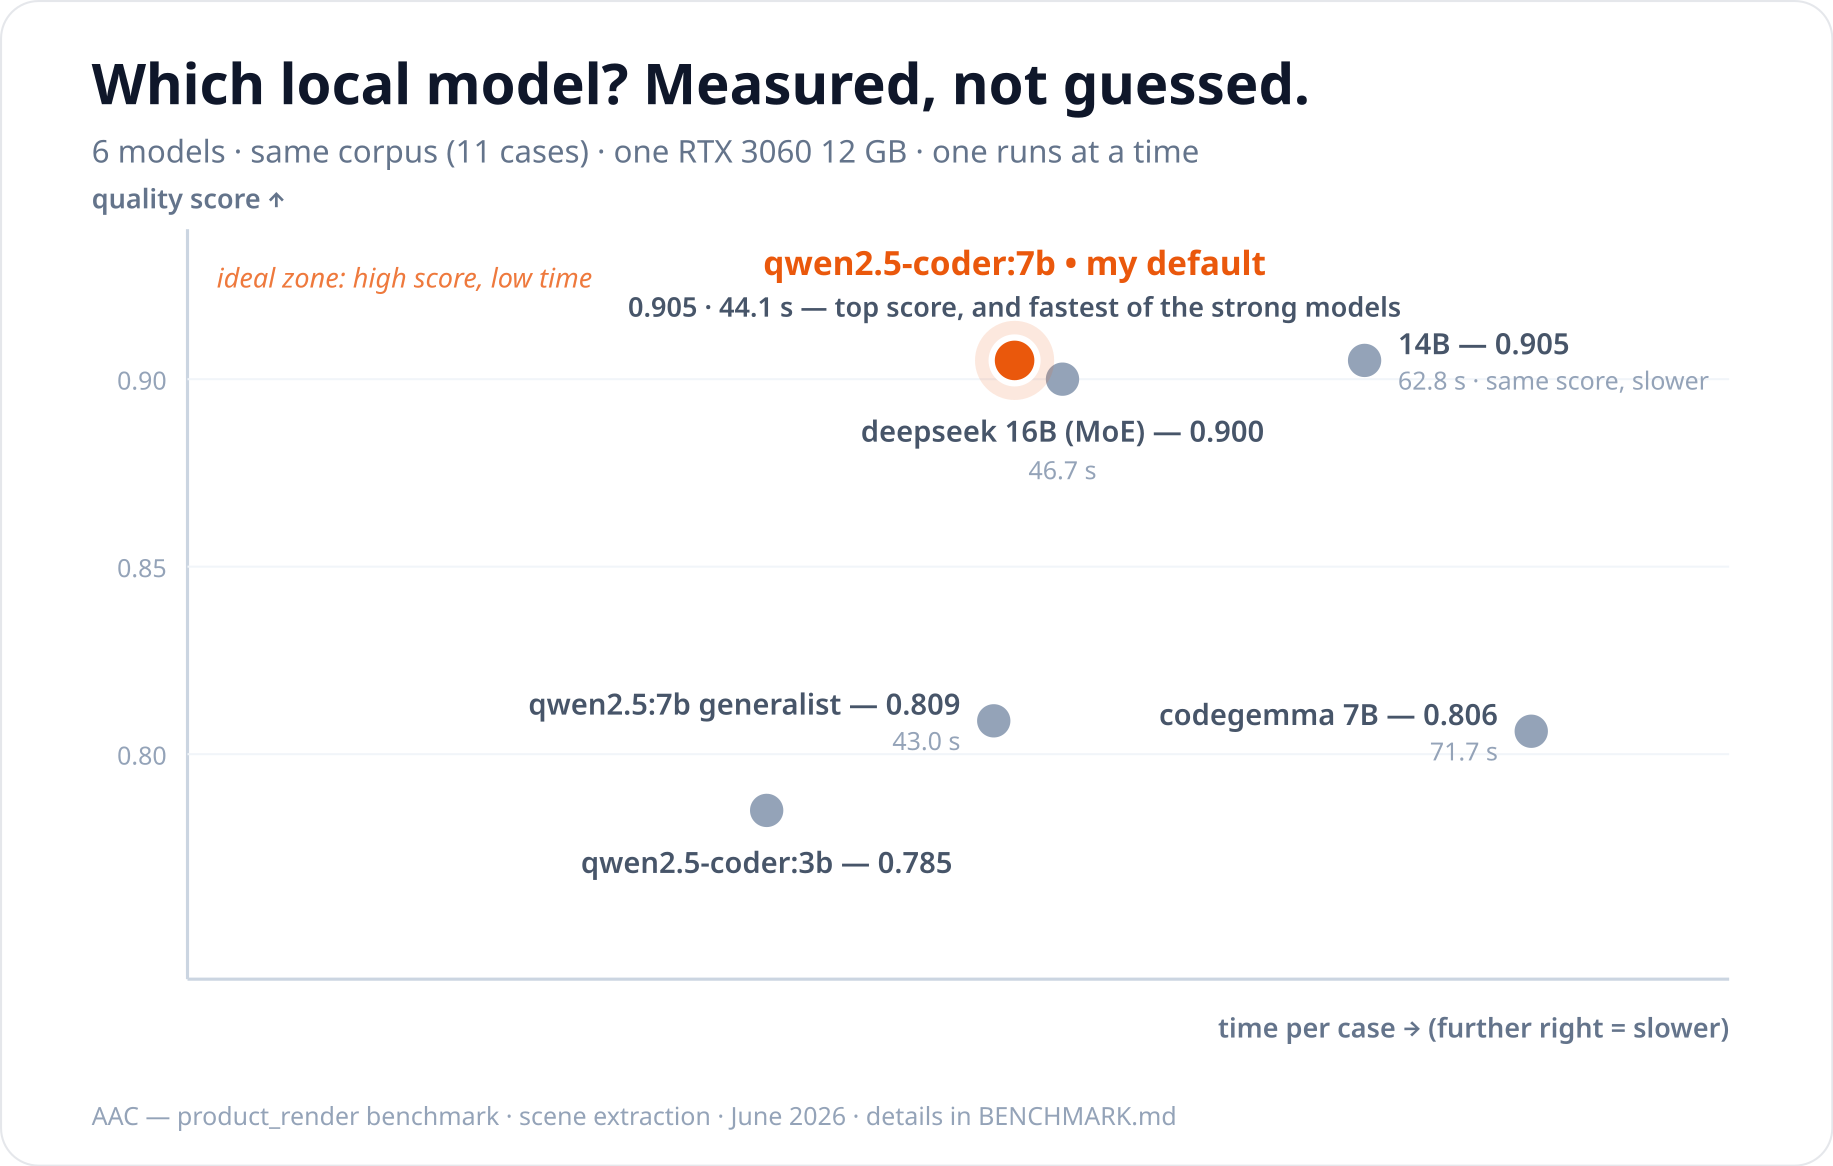
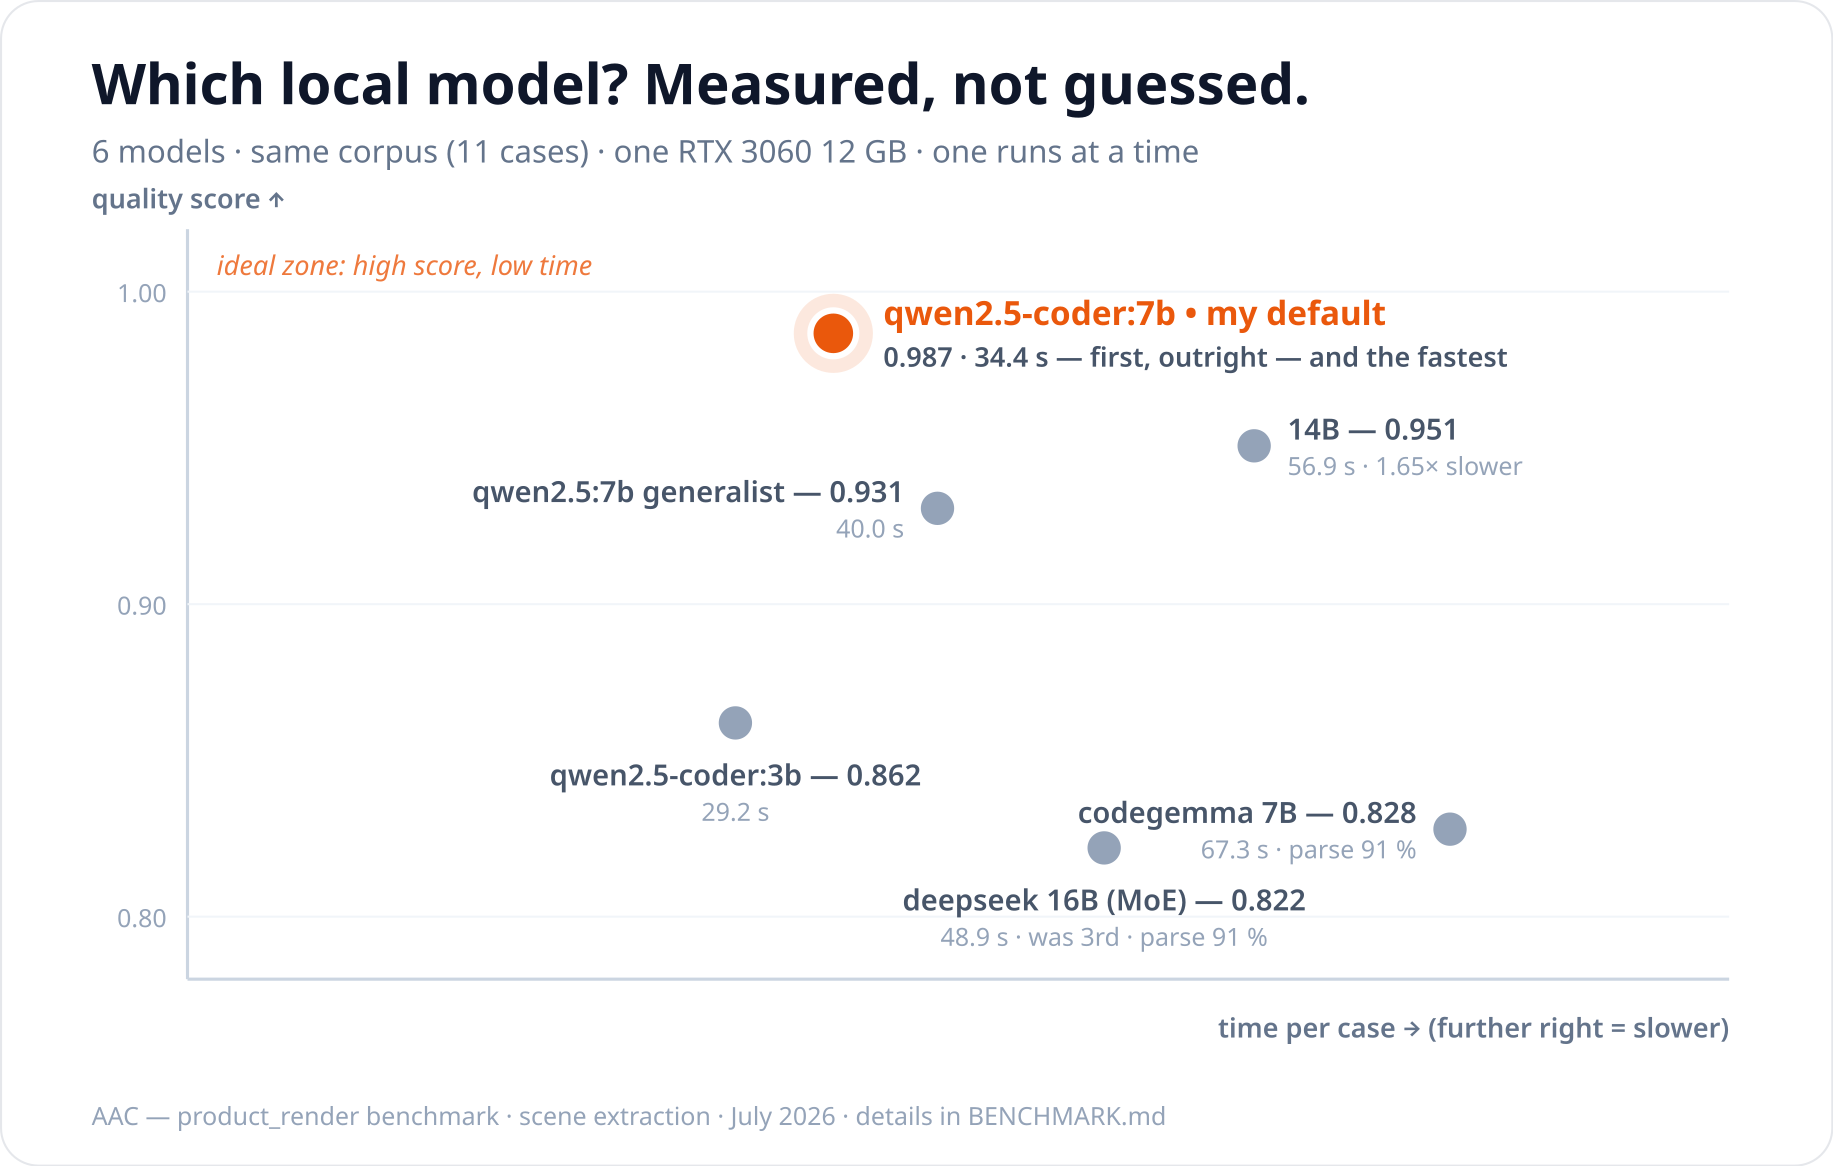
fix(extractor): anti-inference rule closes the schema_version gap (0.545 -> 1.000) (#19)
The extractor inferred V1 attributes from the object type ("tube" ->
cylindrical/opaque) and then labeled the extraction v1 even when the
request never stated them - the last systemic gap flagged by the
benchmark. The prompt now forbids filling any V1 field the request does
not state explicitly, maps transmission words to enum values ("transparent"
-> glass, never the invalid literal "transparent"), and shows two
contrastive v0/v1 examples.

Measured (2026-07-01, idle GPU, 11 cases):
- schema_version 0.545 -> 1.000 on the default model; mean 0.905 -> 0.98-1.00
- cross-model re-run (6 models): coder:7b now first outright (0.987, 34.4s);
  14b 0.951; rankings reshuffle with the prompt (deepseek 3rd -> 6th) -
  documented as "a benchmark measures the model x prompt pair"
- new honesty note: greedy decoding is bit-identical within a session,
  +/-1 borderline case across sessions

Docs: BENCHMARK.md sections 2-3 rewritten, README table refreshed,
quality-vs-speed slide regenerated (axis rescaled to 1.00).
Suite: 1629 passed / 10 skipped.

diff --git a/core/app/engine/product_render_extractor.py b/core/app/engine/product_render_extractor.py
@@ -281,6 +281,41 @@ cas, OMETS complètement les clés `shape`, `cap`, `transparency`, \
 - Utilise `schema_version="v1"` UNIQUEMENT si tu remplis effectivement \
 au moins un de ces champs V1.
 
+RÈGLE ANTI-INFÉRENCE (critique pour le choix v0/v1) : un champ V1 ne se \
+remplit QUE si la demande l'énonce avec un mot explicite. Ne DÉDUIS \
+JAMAIS `shape`, `cap`, `transparency` ou `framing` du type d'objet ni \
+du bon sens :
+- "tube" seul → N'écris PAS shape=cylindrical ni transparency=opaque ;
+- "boîte" seule → N'écris PAS shape=rectangular ;
+- "bouteille" ou "flacon" seuls → N'écris PAS cap=present : il faut \
+"bouchon", "couvercle" ou équivalent dans la demande ;
+- "en verre" seul → material=glass, et N'écris PAS transparency ;
+- transparency s'écrit UNIQUEMENT si la demande contient un mot de \
+transmission, avec ce mapping strict : "transparent"/"transparente" → \
+transparency=glass (la valeur "transparent" N'EXISTE PAS, ne l'écris \
+jamais) ; "translucide" → translucent ; "opaque" → opaque ;
+- aucun mot de cadrage (packshot, plan rapproché, cadrage moyen...) → \
+N'écris PAS framing.
+Si aucun champ V1 n'est énoncé explicitement, la bonne réponse est \
+`schema_version="v0"` SANS les clés V1.
+
+Exemples du choix v0/v1 (à imiter) :
+- "bouteille de shampoing verte en verre sur fond beige" → \
+{{"schema_version": "v0", "subject": {{"kind": "bottle", "color": "green", \
+"material": "glass", "label": "bouteille de shampoing verte en verre", \
+"kind_fidelity": "exact"}}, "backdrop": {{"color": "beige"}}}} \
+(rien d'explicite sur silhouette/bouchon/transparence/cadrage → v0, \
+même si une bouteille a "évidemment" un bouchon et que le verre est \
+"évidemment" transparent).
+- "packshot serré d'un flacon cylindrique translucide bleu avec bouchon, \
+fond noir" → \
+{{"schema_version": "v1", "subject": {{"kind": "bottle", "color": "blue", \
+"material": "glossy", "shape": "cylindrical", "cap": "present", \
+"transparency": "translucent", "label": "flacon cylindrique translucide \
+bleu avec bouchon", "kind_fidelity": "exact"}}, "backdrop": \
+{{"color": "black"}}, "framing": "close_packshot"}} \
+(chaque champ V1 rempli correspond à un mot explicite de la demande).
+
 Distinction CRITIQUE material vs transparency :
 - `material` est l'aspect de surface : matte, glossy, glass, metallic.
 - `transparency` est le profil de transmission : opaque, translucent, glass.

diff --git a/BENCHMARK.md b/BENCHMARK.md
@@ -5,7 +5,7 @@
 > **Honest scope.** This benchmark covers **only the two LLM sites of the Blender pipeline**. The router/classifier, the web-search path and the ComfyUI image pipeline are **not yet measured** (planned — see [Roadmap](#roadmap)). The corpora are small (5 and 11 cases): treat these as a **baseline harness**, not an exhaustive evaluation. The value here is the *method* — versioned corpus, pinned inference, deterministic scoring — as much as the score.
 
 - **Default model:** `qwen2.5-coder:7b` (local, via Ollama); cross-model comparison covers 6 candidates (3 B–16 B).
-- **Date:** 2026-06-30 (scene-extraction prompt fix: `backdrop`/`pedestal` → 1.000)
+- **Date:** 2026-07-01 (extraction-prompt fix: `schema_version` 0.545 → 1.000 on the default model)
 - **Hardware:** single RTX 3060 (12 GB)
 
 ---
@@ -38,25 +38,24 @@ Per case: `freeform_metal_sphere_floating`, `freeform_low_poly_tree`, `ambiguous
 
 ### 2. `product_render` — quality of the structured scene extraction
 
-11 cases · single run.
+11 cases · measured three times on 2026-07-01 (single run, 5-seed consolidation, cross-model session).
 
 | Metric | Result |
 | --- | --- |
-| Parse OK | **100 %** |
-| Mean score | **0.905 / 1.0** |
+| Parse OK | **100 %** (every session) |
+| Mean score | **0.98 – 1.00** (1.000 · 0.982 · 0.987 across the three sessions) |
 
-Per-field accuracy surfaces exactly where it breaks down:
+Per-field accuracy:
 
 | Field | Accuracy |
 | --- | --- |
 | `framing`, `subject.*` (shape, color, material, kind, cap, transparency) | **1.000** |
-| `subject.kind_fidelity` | 1.000 |
-| `backdrop.color`, `pedestal.color`, `pedestal.material` | 1.000 |
-| **`schema_version`** | **0.545** |
+| `subject.kind_fidelity`, `backdrop.color`, `pedestal.*` | 1.000 |
+| **`schema_version`** | **1.000** *(was 0.545 — fixed this revision, see below)* |
 
-One real weakness remains, stated plainly: the default model is unreliable on `schema_version` (0.545). It is tracked, not hidden — and it is the *next* extraction-prompt fix to make (see the cross-model finding below).
+> **The benchmark drove a fix — again.** The 2026-06-30 revision fixed `backdrop.color`/`pedestal.color` at the prompt level. This revision closes the last systemic gap: `schema_version` (0.545 → 1.000). Root cause: the model *inferred* V1 attributes from the object type ("tube" → cylindrical) and then labeled the extraction v1 even when the request never stated them. The fix is an **anti-inference rule** in the extraction prompt — a V1 field may only be filled when the request states it explicitly — plus two contrastive examples. No model change, no scoring change, one prompt edit.
 
-> **The benchmark drove a fix.** The prior revision flagged two extraction gaps — `backdrop.color` (0.900) and `pedestal.color` (0.000 on the single-seed run). A scene-extraction prompt fix (2026-06-30) closed both to **1.000** while resolving a real rendering bug (a wrong backdrop color bleeding a colored cast over neutral packshots). `schema_version` is the remaining systemic gap.
+**Honest nuance — reproducibility has a boundary.** Within one server session, greedy decoding is bit-identical (5 seeds, stdev 0.000). *Across* sessions, exactly one borderline case can flip (observed twice: the amber-bottle v0/v1 label; the watch pedestal color) — hence the 0.98–1.00 range instead of a single number. Reproducibility holds within a session; the residual across-session variance is ±1 case (±0.018 on the mean).
 
 ### 3. Cross-model comparison — `product_render`
 
@@ -64,22 +63,22 @@ The whole point of a benchmark is to **compare and decide**. Six locally-runnabl
 
 | Rank | Model | Mean score | Parse OK | Time (11 cases) | Note |
 | --- | --- | --- | --- | --- | --- |
-| 1 | **`qwen2.5-coder:7b`** *(default)* | **0.905** | 100 % | **44.1 s** | best quality *and* quality-per-second |
-| 2 | `qwen2.5-coder:14b` | **0.905** | 100 % | 62.8 s | ties the 7 B, for 1.4× the time |
-| 3 | `deepseek-coder-v2:16b` | 0.900 | 100 % | 46.7 s | MoE (~2.4 B active): nearly top, faster than the 14 B *dense* |
-| 4 | `qwen2.5:7b` *(generalist)* | 0.809 | 90.9 % | 43.0 s | same base as `coder:7b`, no code tuning |
-| 5 | `codegemma:7b` | 0.806 | 100 % | 71.7 s | other-vendor code model |
-| 6 | `qwen2.5-coder:3b` | 0.785 | 90.9 % | 30.9 s | smallest, fastest |
+| 1 | **`qwen2.5-coder:7b`** *(default)* | **0.987** | 100 % | **34.4 s** | best quality outright, and fastest of the strong models |
+| 2 | `qwen2.5-coder:14b` | 0.951 | 100 % | 56.9 s | clearly behind the 7 B now, for 1.65× the time |
+| 3 | `qwen2.5:7b` *(generalist)* | 0.931 | 100 % | 40.0 s | biggest beneficiary of the clearer prompt (was 0.809) |
+| 4 | `qwen2.5-coder:3b` | 0.862 | 100 % | 29.2 s | smallest, fastest |
+| 5 | `codegemma:7b` | 0.828 | 90.9 % | 67.3 s | parse regressed under the longer prompt |
+| 6 | `deepseek-coder-v2:16b` | 0.822 | 90.9 % | 48.9 s | was 3rd (0.900) on the previous prompt — dropped, with parse failures |
 
 **What it shows:**
 
-- **The default is the right call — now unambiguously.** `qwen2.5-coder:7b` is **tied for the best quality** (0.905, with the 14 B) while running **1.4× faster**. It is the best quality *and* the best quality-per-second among the strong models. The model choice is *evidence-backed*, not assumed.
-- **Returns flatten, they don't just diminish.** 3b → 7b → 14b reads 0.785 → 0.905 → **0.905**: the 14 B adds **nothing** over the 7 B on this corpus, for 1.4× the latency. At this scale, paying for more parameters buys no quality.
-- **Code fine-tuning earns its keep.** `coder:7b` (0.905, 100 % parse) beats the *same-base, same-size* generalist `qwen2.5:7b` (0.809, 90.9 % parse) by **+0.096**. A controlled result: the only variable is the code tuning.
-- **Total params ≠ quality.** The 16 B MoE lands 3rd (0.900) — close, and faster than the 14 B dense (confirming the MoE expectation), but not better than the 7 B. Bigger headline number, not better output.
-- **A systemic weakness, not a model one.** `schema_version` is weak for *every* model (best 0.636). When all candidates fail at the same field, the cause is the prompt/spec, not the model — exactly the kind of fix just applied to `backdrop`/`pedestal` this revision, with `schema_version` next in line.
+- **The default is the right call — now outright.** `qwen2.5-coder:7b` is **first, alone** (0.987) *and* the fastest of the strong models — 1.65× faster than the runner-up. On the previous prompt it tied the 14 B; on the tightened prompt it simply wins. The model choice is *evidence-backed*, not assumed.
+- **A spec fix beat a model swap.** `schema_version` was weak for *every* model on the old prompt (best 0.636) — a spec problem, not a model problem. One prompt edit later, the default scores 1.000 on it. No amount of "try a bigger model" would have found that; the per-field breakdown did.
+- **A benchmark measures the pair, not the model.** Same corpus, same scoring, new prompt: `deepseek-coder-v2:16b` fell from 3rd (0.900) to 6th (0.822) with parse failures, while the generalist `qwen2.5:7b` jumped +0.122. Rankings are **model × prompt fit** — which is exactly why the comparison is re-run after every prompt change instead of quoting stale numbers.
+- **Code fine-tuning still earns its keep — less starkly.** `coder:7b` (0.987) beats the *same-base, same-size* generalist (0.931) by +0.056 (was +0.096). The clearer the spec, the smaller the specialization gap — an expected and honest convergence.
+- **Returns still flatten past 7 B.** The 14 B scores *below* the 7 B (0.951 vs 0.987) for 1.65× the latency. At this scale, paying for more parameters buys no quality.
 
-> **Consolidation (5 seeds).** Re-running the default (`coder:7b`) across seeds `42,7,1,123,999` returns **bit-identical scores** (mean 0.905 every time). Note *why*: the canonical config is greedy (`temperature=0`, `top_k=1`), so the seed does not change the output. This proves **reproducibility**, not robustness to sampling noise — measuring the latter would require `temperature > 0`, and is left as honest future work. The corpus is also small (11 cases), so per-field figures stay indicative rather than definitive.
+> **Consolidation (5 seeds).** Re-running the default (`coder:7b`) across seeds `42,7,1,123,999` returns **bit-identical scores within the session** (mean 0.982 every time, stdev 0.000). Note *why*: the canonical config is greedy (`temperature=0`, `top_k=1`), so the seed does not change the output. This proves **reproducibility**, not robustness to sampling noise — measuring the latter would require `temperature > 0`, and is left as honest future work. Across sessions, one borderline case can flip (see the nuance in section 2). The corpus is also small (11 cases), so per-field figures stay indicative rather than definitive.
 
 ---
 

diff --git a/README.md b/README.md
@@ -124,14 +124,14 @@ Most solo projects say *"it works."* AAC **measures** it. Two reproducible eval 
 
 | Model | Quality | Time (11 cases) |
 |---|---|---|
-| **`qwen2.5-coder:7b`** *(default)* | **0.905** | **44.1 s** |
-| `qwen2.5-coder:14b` | 0.905 | 62.8 s |
-| `deepseek-coder-v2:16b` | 0.900 | 46.7 s |
-| `qwen2.5:7b` *(generalist)* | 0.809 | 43.0 s |
-| `codegemma:7b` | 0.806 | 71.7 s |
-| `qwen2.5-coder:3b` | 0.785 | 30.9 s |
+| **`qwen2.5-coder:7b`** *(default)* | **0.987** | **34.4 s** |
+| `qwen2.5-coder:14b` | 0.951 | 56.9 s |
+| `qwen2.5:7b` *(generalist)* | 0.931 | 40.0 s |
+| `qwen2.5-coder:3b` | 0.862 | 29.2 s |
+| `codegemma:7b` | 0.828 | 67.3 s |
+| `deepseek-coder-v2:16b` | 0.822 | 48.9 s |
 
-The default (`coder:7b`) is **tied for the best quality while running 1.4× faster** than the model it ties — the best quality-per-second on consumer hardware. Clean findings fall out: a code-tuned model beats the *same-size, same-base* generalist (0.905 vs 0.809), the 14 B buys **no** quality over the 7 B for its extra latency, and one field (`schema_version`) is weak for *every* model — so that's the spec to fix, not the model.
+The default (`coder:7b`) is **the best quality outright — and the fastest of the strong models** (1.65× faster than the runner-up) on consumer hardware. The benchmark keeps earning its keep: its per-field breakdown exposed a spec-level weakness (`schema_version`, weak for *every* model), one extraction-prompt fix later that field scores 1.000 — and re-running the six-model comparison showed the rankings reshuffle with the prompt, proof that a benchmark measures the **model × prompt pair**, not the model alone.
 
 **Honest scope:** small corpora (5 and 11 cases), only the Blender-side LLM is measured yet, and the pinned greedy decoding makes this a *reproducibility* baseline, not a robustness one. Full method, per-field scores and the cross-seed consolidation → [`BENCHMARK.md`](BENCHMARK.md).
 